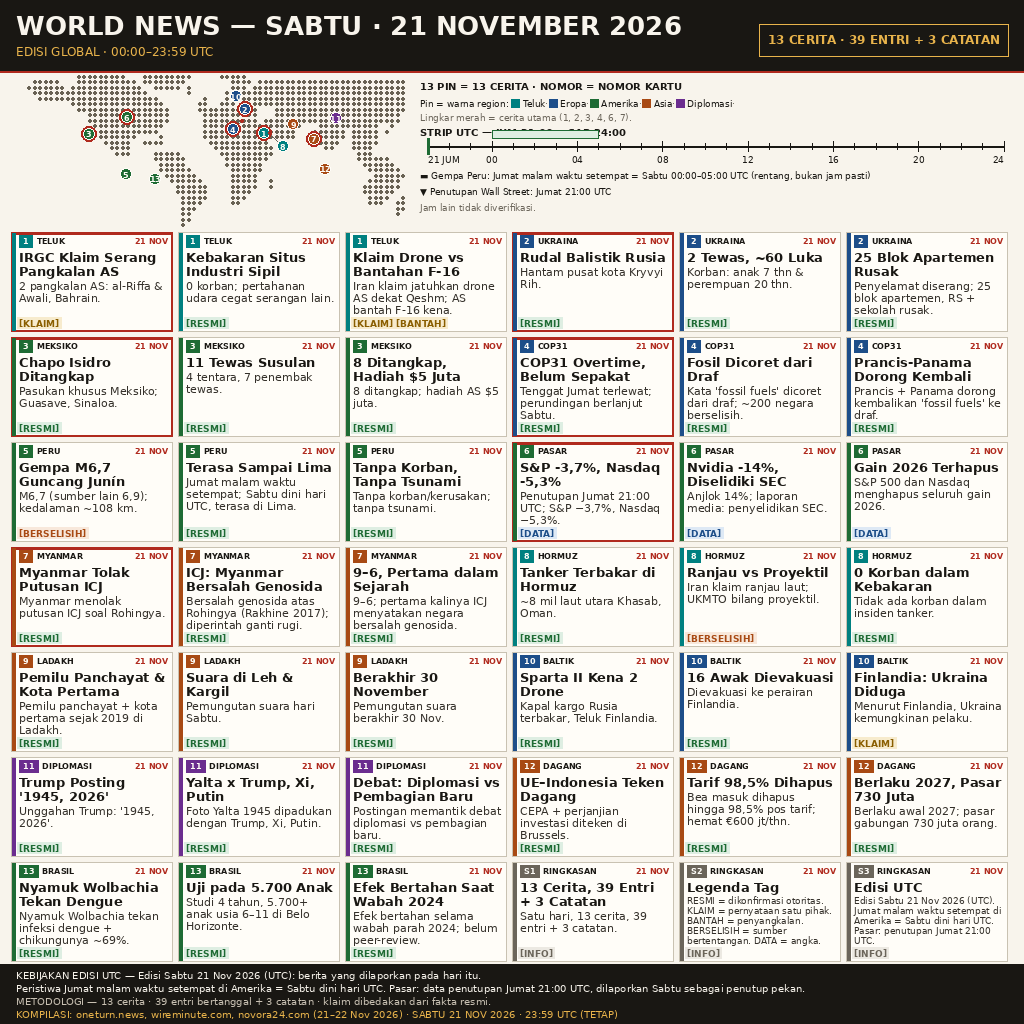
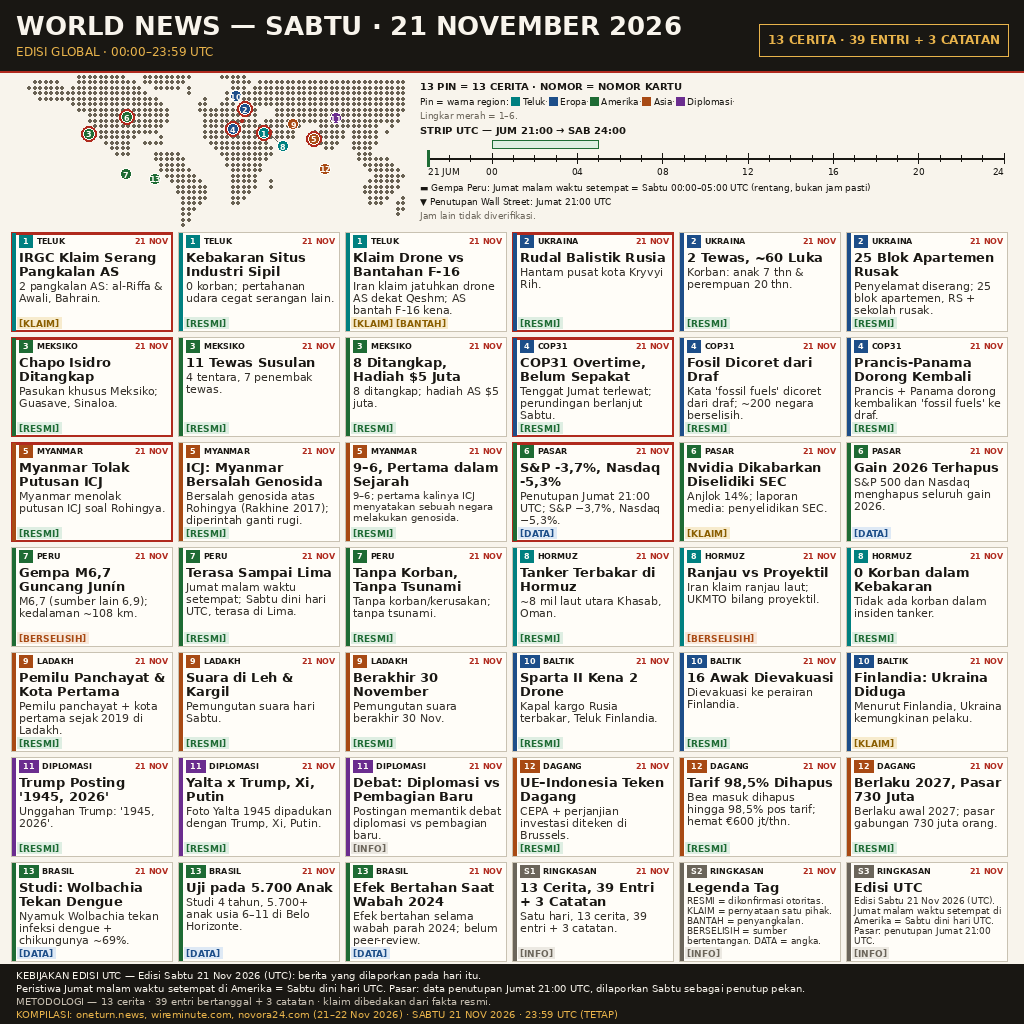
news-image-20261121 v3: Claude REVISI ringan fixes
- Tag: dengue 13-1/13-2/13-3 RESMI->DATA; 13-1 'Studi: Wolbachia
  Tekan Dengue'; 11-3 RESMI->INFO; 6-2 'Nvidia Dikabarkan Diselidiki
  SEC' + tag KLAIM
- Strip UTC: batang rentang gempa Peru ke baris sendiri (tak lagi
  menimpa label)
- ICJ: 5-3 frasa persis sumber 'pertama kalinya ICJ menyatakan sebuah
  negara melakukan genosida'; 5-2 'diperintah ganti rugi' tetap
- Renumber: cerita 5 Peru <-> 7 Myanmar; hero 1-6; legenda
  'Lingkar merah = 1-6'; pin 5 Myanmar, pin 7 Peru

diff --git a/build_image.py b/build_image.py
@@ -25,6 +25,21 @@ v2 (verdict Claude REVISI, 12:29 WIB 22 Nov):
   impact); no invented stories, timestamps, outlet names or confidence
   numbers. Estimates use ~.
 
+v3 (verdict Claude REVISI ringan atas v2, 12:46 WIB 22 Nov — 4 poin saja):
+- Tag [RESMI] yang bertentangan: dengue 13-1/13-2/13-3 -> [DATA]; 13-1
+  judul "Studi: Wolbachia Tekan Dengue" (atribusi); 11-3 -> [INFO];
+  6-2 judul "Nvidia Dikabarkan Diselidiki SEC", tag [KLAIM].
+- Strip UTC: batang rentang gempa Peru pindah ke baris sendiri (y 140-148)
+  di antara label dan garis ruler — v2 menimpa label (hanya "4:00" terbaca).
+- ICJ dipersempit: 5-3 memakai frasa persis sumber "pertama kalinya ICJ
+  menyatakan sebuah negara melakukan genosida" (CNN/Asia Daily 19 Nov);
+  5-2 "diperintah ganti rugi" TETAP (terverifikasi CNN + SCC Times).
+- Renumber: cerita 5 Peru <-> 7 Myanmar ditukar; hero jadi 1-6;
+  legenda "Lingkar merah = 1-6"; pin 5 = Myanmar, pin 7 = Peru.
+- Badan 5-3 render 10px (bukan 11px) supaya frasa verbatim muat 3 baris;
+  judul 13-1 dan 6-2 dipadatkan agar muat 2 baris (angka ~69% / -14%
+  tetap ada di badan kartu).
+
 Run locally:  python3 build_image.py
 No randomness, no clock, no network. Re-running writes identical bytes.
 """
@@ -81,7 +96,7 @@ REGION_NAMES = [
 ]
 
 # Hero stories (red border on their first card, red ring on their map pin).
-HERO_STORIES = {1, 2, 3, 4, 6, 7}
+HERO_STORIES = {1, 2, 3, 4, 5, 6}
 
 # (story, region, title, fact, tag, hero)
 CARDS = [
@@ -117,30 +132,30 @@ CARDS = [
     (4, "COP31", "Prancis-Panama Dorong Kembali",
      "Prancis + Panama dorong kembalikan 'fossil fuels' ke draf.",
      "RESMI", False),
-    # 5 — Gempa Peru
-    (5, "PERU", "Gempa M6,7 Guncang Junín",
-     "M6,7 (sumber lain 6,9); kedalaman ~108 km.", "BERSELISIH", False),
-    (5, "PERU", "Terasa Sampai Lima",
-     "Jumat malam waktu setempat; Sabtu dini hari UTC, terasa di Lima.",
+    # 5 — Myanmar / ICJ (dulu 7; tukar dengan Peru — Claude v2 poin 4)
+    (5, "MYANMAR", "Myanmar Tolak Putusan ICJ",
+     "Myanmar menolak putusan ICJ soal Rohingya.", "RESMI", True),
+    (5, "MYANMAR", "ICJ: Myanmar Bersalah Genosida",
+     "Bersalah genosida atas Rohingya (Rakhine 2017); diperintah ganti rugi.",
      "RESMI", False),
-    (5, "PERU", "Tanpa Korban, Tanpa Tsunami",
-     "Tanpa korban/kerusakan; tanpa tsunami.", "RESMI", False),
+    (5, "MYANMAR", "9–6, Pertama dalam Sejarah",
+     "9–6; pertama kalinya ICJ menyatakan sebuah negara melakukan genosida.",
+     "RESMI", False, 10),
     # 6 — Saham AI
     (6, "PASAR", "S&P -3,7%, Nasdaq -5,3%",
      "Penutupan Jumat 21:00 UTC; S&P −3,7%, Nasdaq −5,3%.", "DATA", True),
-    (6, "PASAR", "Nvidia -14%, Diselidiki SEC",
-     "Anjlok 14%; laporan media: penyelidikan SEC.", "DATA", False),
+    (6, "PASAR", "Nvidia Dikabarkan Diselidiki SEC",
+     "Anjlok 14%; laporan media: penyelidikan SEC.", "KLAIM", False),
     (6, "PASAR", "Gain 2026 Terhapus",
      "S&P 500 dan Nasdaq menghapus seluruh gain 2026.", "DATA", False),
-    # 7 — Myanmar / ICJ
-    (7, "MYANMAR", "Myanmar Tolak Putusan ICJ",
-     "Myanmar menolak putusan ICJ soal Rohingya.", "RESMI", True),
-    (7, "MYANMAR", "ICJ: Myanmar Bersalah Genosida",
-     "Bersalah genosida atas Rohingya (Rakhine 2017); diperintah ganti rugi.",
+    # 7 — Gempa Peru (dulu 5; tukar dengan Myanmar — Claude v2 poin 4)
+    (7, "PERU", "Gempa M6,7 Guncang Junín",
+     "M6,7 (sumber lain 6,9); kedalaman ~108 km.", "BERSELISIH", False),
+    (7, "PERU", "Terasa Sampai Lima",
+     "Jumat malam waktu setempat; Sabtu dini hari UTC, terasa di Lima.",
      "RESMI", False),
-    (7, "MYANMAR", "9–6, Pertama dalam Sejarah",
-     "9–6; pertama kalinya ICJ menyatakan negara bersalah genosida.",
-     "RESMI", False),
+    (7, "PERU", "Tanpa Korban, Tanpa Tsunami",
+     "Tanpa korban/kerusakan; tanpa tsunami.", "RESMI", False),
     # 8 — Tanker Hormuz
     (8, "HORMUZ", "Tanker Terbakar di Hormuz",
      "~8 mil laut utara Khasab, Oman.", "RESMI", False),
@@ -168,7 +183,7 @@ CARDS = [
     (11, "DIPLOMASI", "Yalta x Trump, Xi, Putin",
      "Foto Yalta 1945 dipadukan dengan Trump, Xi, Putin.", "RESMI", False),
     (11, "DIPLOMASI", "Debat: Diplomasi vs Pembagian Baru",
-     "Postingan memantik debat diplomasi vs pembagian baru.", "RESMI", False),
+     "Postingan memantik debat diplomasi vs pembagian baru.", "INFO", False),
     # 12 — UE–Indonesia
     (12, "DAGANG", "UE–Indonesia Teken Dagang",
      "CEPA + perjanjian investasi diteken di Brussels.", "RESMI", False),
@@ -178,15 +193,15 @@ CARDS = [
     (12, "DAGANG", "Berlaku 2027, Pasar 730 Juta",
      "Berlaku awal 2027; pasar gabungan 730 juta orang.", "RESMI", False),
     # 13 — Dengue Brasil
-    (13, "BRASIL", "Nyamuk Wolbachia Tekan Dengue",
+    (13, "BRASIL", "Studi: Wolbachia Tekan Dengue",
      "Nyamuk Wolbachia tekan infeksi dengue + chikungunya ~69%.",
-     "RESMI", False),
+     "DATA", False),
     (13, "BRASIL", "Uji pada 5.700 Anak",
      "Studi 4 tahun, 5.700+ anak usia 6–11 di Belo Horizonte.",
-     "RESMI", False),
+     "DATA", False),
     (13, "BRASIL", "Efek Bertahan Saat Wabah 2024",
      "Efek bertahan selama wabah parah 2024; belum peer-review.",
-     "RESMI", False),
+     "DATA", False),
     # Summary cards (meta-cards, not news)
     ("S1", "RINGKASAN", "13 Cerita, 39 Entri + 3 Catatan",
      "Satu hari, 13 cerita, 39 entri + 3 catatan.", "INFO", False),
@@ -240,9 +255,9 @@ PINS = [
     (2, "UKRAINA", 33.4, 47.9, 0, 0),     # Kryvyi Rih
     (3, "MEKSIKO", -108.5, 25.6, 0, 0),   # Guasave, Sinaloa
     (4, "COP31", 30.7, 36.9, -9, 8),      # Antalya (nudged off Kryvyi Rih)
-    (5, "PERU", -75.0, -11.0, 0, 0),      # Junin, Peru
+    (5, "MYANMAR", 96.0, 21.0, 0, 0),     # Myanmar (dulu pin 7)
     (6, "PASAR", -74.0, 40.7, 0, 0),      # New York (AI markets)
-    (7, "MYANMAR", 96.0, 21.0, 0, 0),     # Myanmar
+    (7, "PERU", -75.0, -11.0, 0, 0),      # Junin, Peru (dulu pin 5)
     (8, "HORMUZ", 56.2, 26.2, 13, 13),    # Khasab, Oman (nudged off Bahrain)
     (9, "LADAKH", 77.6, 34.2, 0, 0),      # Leh, Ladakh
     (10, "BALTIK", 25.0, 59.8, 0, 0),     # Gulf of Finland
@@ -308,7 +323,7 @@ def draw_map(draw):
 
 
 def draw_card(draw, x, y, w, h, card, issues):
-    story, region, title, fact, tag, hero = card
+    story, region, title, fact, tag, hero = card[:6]
     region_color = REGION_COLOR[region]
     draw.rectangle([x, y, x + w - 1, y + h - 1], fill=CARD_BG, outline=RULE, width=1)
     if hero:
@@ -344,9 +359,12 @@ def draw_card(draw, x, y, w, h, card, issues):
         draw.text((px, ty), ln, font=f_title, fill=INK)
         ty += 14
     # Fact: 11px, max 3 lines (summary cards S2/S3: 9px, max 5 lines).
+    # A card may carry a 7th tuple element = fact font size (v3: card 5-3
+    # needs 10px so the verbatim ICJ phrase fits in 3 lines).
     small = story in ("S2", "S3")
-    f_fact = font("DejaVuSans.ttf", 9 if small else 11)
-    fact_lh = 10 if small else 12
+    fact_px = card[6] if len(card) > 6 else (9 if small else 11)
+    f_fact = font("DejaVuSans.ttf", fact_px)
+    fact_lh = fact_px + 1
     fact_max = 5 if small else 3
     flines = wrap(draw, fact, f_fact, inner)
     for ln in flines:
@@ -383,7 +401,7 @@ def draw_strip(draw, rx):
     draw.text((rx, 80), "13 PIN = 13 CERITA · NOMOR = NOMOR KARTU",
               font=f_lab, fill=INK)
     # Region colour legend with swatches.
-    lx, ly = rx, 98
+    lx, ly = rx, 96
     draw.text((lx, ly), "Pin = warna region:", font=f_small, fill=INK)
     cx = lx + draw.textlength("Pin = warna region: ", font=f_small)
     for color, name in REGION_NAMES:
@@ -392,19 +410,20 @@ def draw_strip(draw, rx):
         draw.text((cx, ly), name, font=f_small, fill=INK)
         cx += draw.textlength(name, font=f_small) + 4
         draw.text((cx - 4, ly), "·", font=f_small, fill=MUTED)
-    draw.text((rx, 112), "Lingkar merah = cerita utama (1, 2, 3, 4, 6, 7).",
+    draw.text((rx, 110), "Lingkar merah = 1–6.",
               font=f_small, fill=MUTED)
-    draw.text((rx, 126), "STRIP UTC — JUM 21:00 → SAB 24:00",
+    draw.text((rx, 124), "STRIP UTC — JUM 21:00 → SAB 24:00",
               font=f_lab, fill=INK)
-    sx0, sx1, sy = rx + 8, 1004, 146
+    sx0, sx1, sy = rx + 8, 1004, 158
     span_h = 27.0
 
     def x_at(hours_since_fri21):
         return sx0 + (sx1 - sx0) * hours_since_fri21 / span_h
 
     # Peru quake range: Fri evening local (UTC-5) = Sat 00:00–05:00 UTC.
+    # Own row between the label and the ruler (v2: it overlapped the label).
     rx0, rx1 = x_at(3), x_at(8)
-    draw.rectangle([rx0, 130, rx1, 138], fill=GREEN_TINT, outline=GREEN, width=1)
+    draw.rectangle([rx0, 140, rx1, 148], fill=GREEN_TINT, outline=GREEN, width=1)
     # Ruler.
     draw.line([sx0, sy, sx1, sy], fill=INK, width=2)
     for h in range(0, 28):
@@ -421,13 +440,13 @@ def draw_strip(draw, rx):
         draw.text((ax, sy + 8), lab, font=f_small, fill=INK)
     # Wall Street close tick: Fri 21:00 UTC.
     draw.line([sx0, sy - 8, sx0, sy + 8], fill=GREEN, width=3)
-    draw.text((rx, 170),
+    draw.text((rx, 182),
               "▬ Gempa Peru: Jumat malam waktu setempat = Sabtu 00:00–05:00 UTC "
               "(rentang, bukan jam pasti)",
               font=f_small, fill=INK)
-    draw.text((rx, 186), "▼ Penutupan Wall Street: Jumat 21:00 UTC",
+    draw.text((rx, 196), "▼ Penutupan Wall Street: Jumat 21:00 UTC",
               font=f_small, fill=INK)
-    draw.text((rx, 202), "Jam lain tidak diverifikasi.", font=f_small, fill=MUTED)
+    draw.text((rx, 210), "Jam lain tidak diverifikasi.", font=f_small, fill=MUTED)
 
 
 def render():
